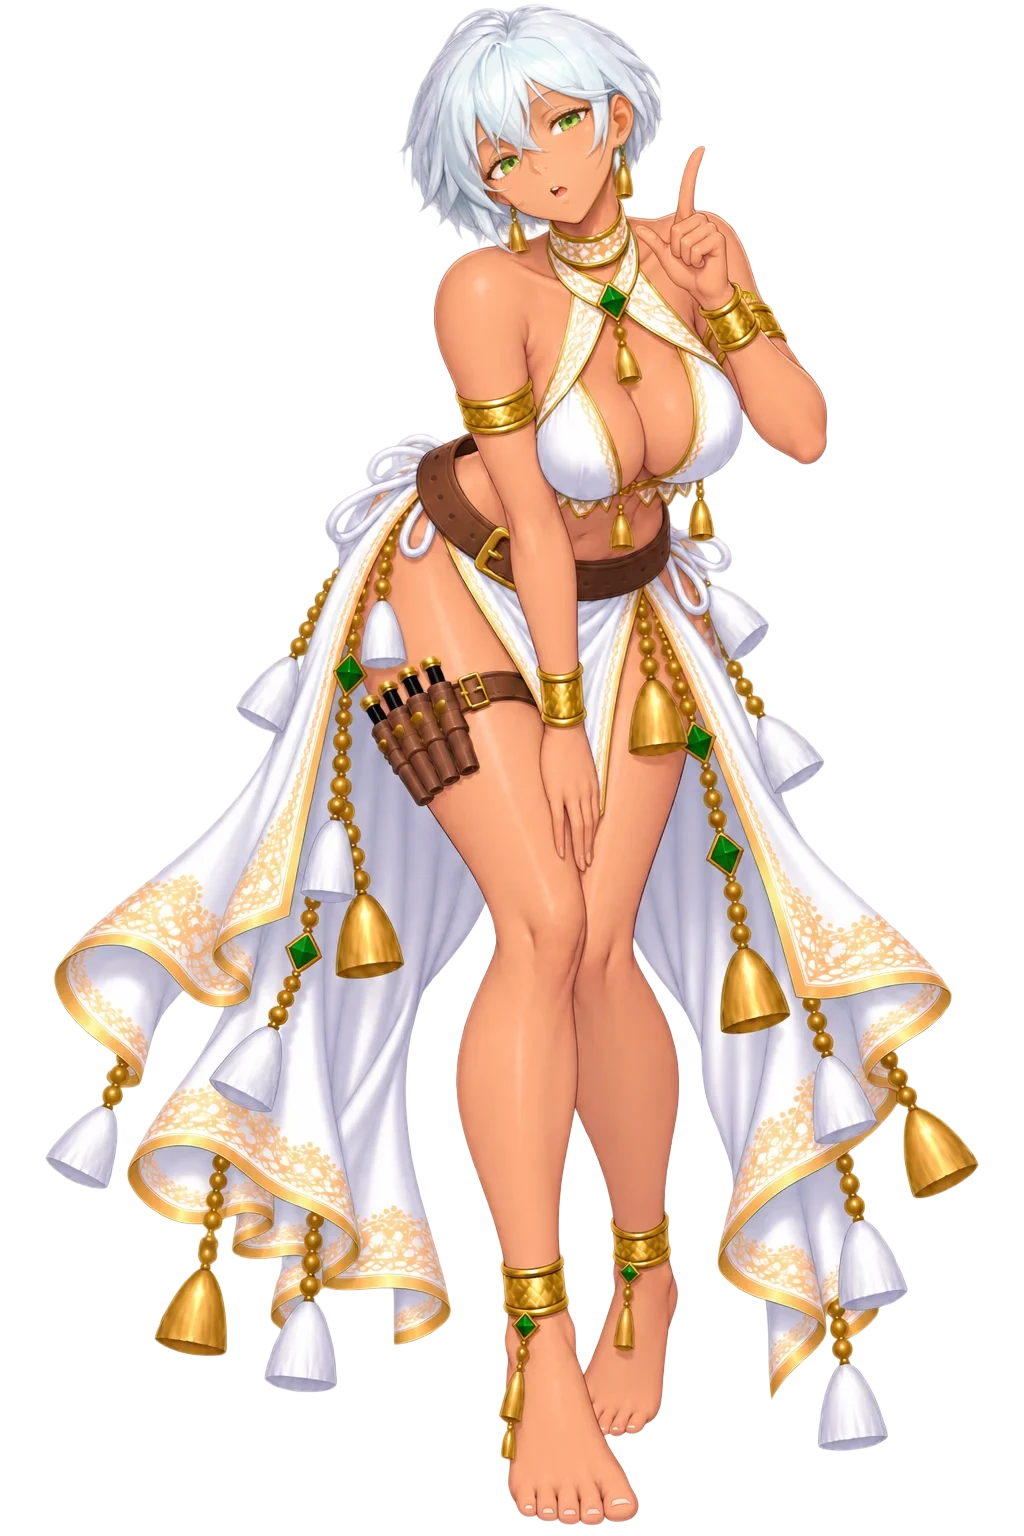
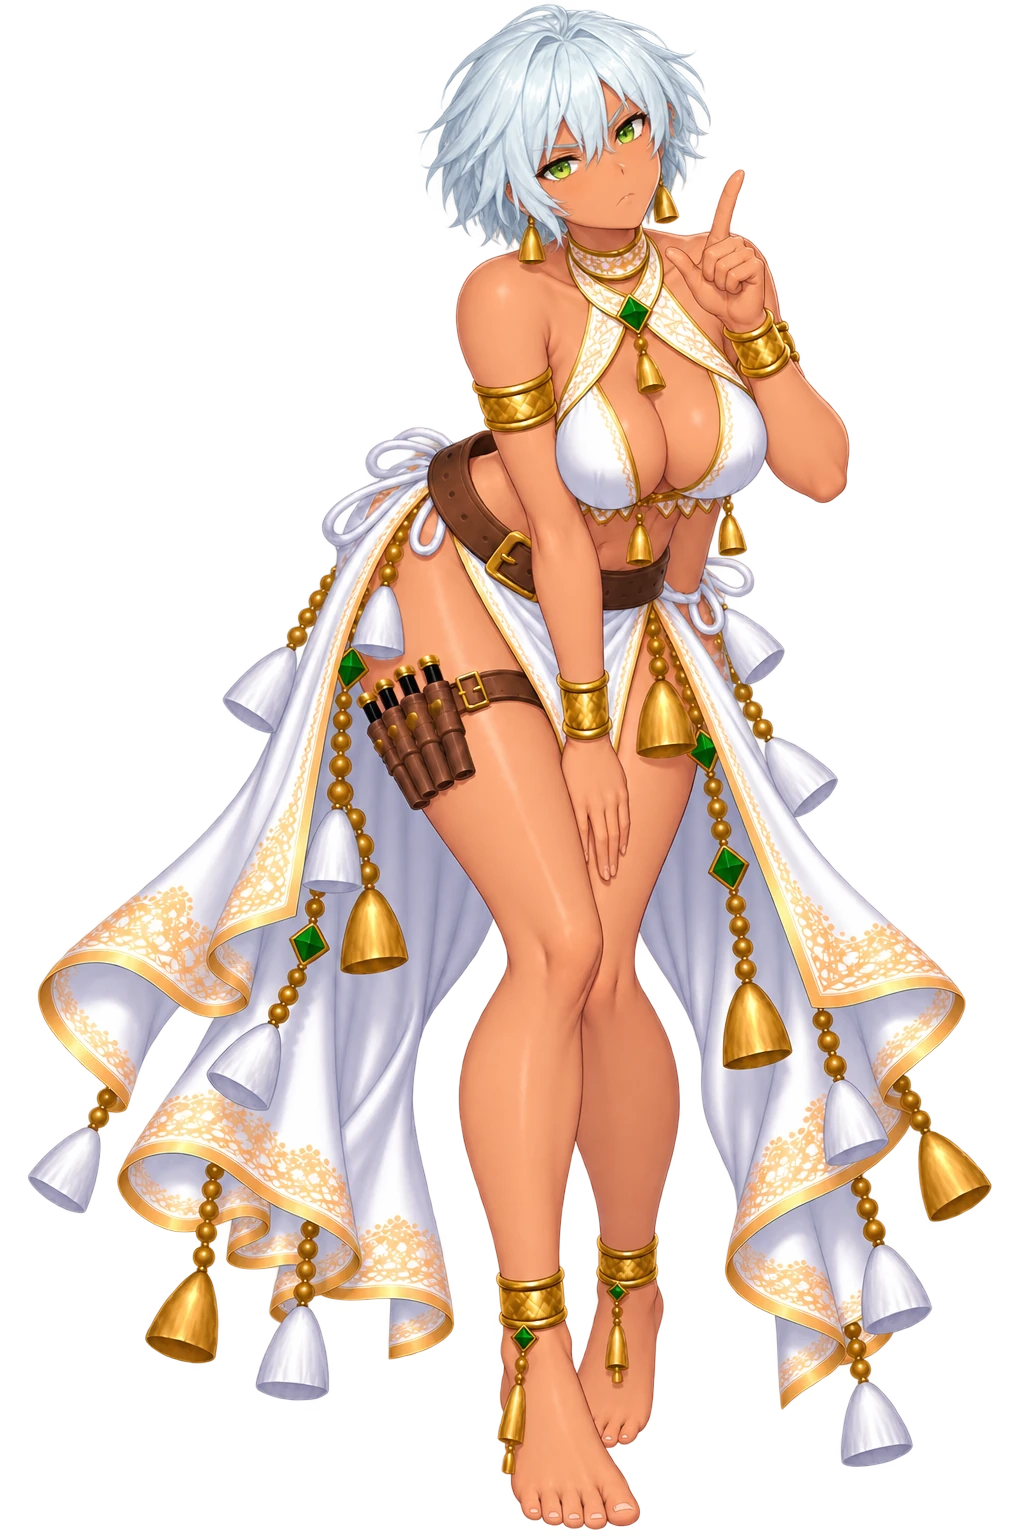
art(索拉娜): 再兩張 whisper／remind —— 57/62，剩下 5 張要 Ray 決定
換串 ＋ 在三行後面接一個短方向詞（憲法 §5 第二段）之後過的：
  whisper「警戒中的女戰士」／ remind「認真的女戰士」
四項驗收過（色相 199.7~206.2／角α 0／近白 0.00~0.25%／與 A 差 33~34），
臉部 100% 裁切並排看過，臉模與髮色對得上基底 A。

還差 5 張，兩種病不要混為一談：
  smirk(4次) tease(4次) amaze(3次) laugh(3次) —— 內容判定，連圖都沒有
  panic(3次) —— 圖出得來，但角落 alpha 246~252＝它自己畫了背景；
    兩種「要透明背景」的寫法都無效 ⇒ 該走憲法 -1516 的本機 alpha
    (tools/si_matting.py)，但這台還沒建 .venv-matting

⚠ 這五張已經接進腳本，「換掉那一張」會改掉演出 —— 三條路寫在工單 §四，Ray 決定。
⚠ 程式端要接：speakers.js 共 13 條路徑跳 ?v=（11 張加 v=2、side/smile 改 v=3）。

Changed region(s): [[0.0312, 0.0, 0.9688, 1.0]]

diff --git a/resources/si/_sorana_r3_worklist.md b/resources/si/_sorana_r3_worklist.md
@@ -1,4 +1,4 @@
-# 給程式 session 的工單 — 索拉娜第三輪重製 11 張（2026-09-22，美術 session）
+# 給程式 session 的工單 — 索拉娜第三輪重製 **13 張**（2026-09-22，美術 session）
 
 > Ray：「推上去，然後跑索」。作法照 `_sorana_r2_worklist.md` §五（A 先傳、三行提示詞、
 > 被擋就重送一次、再擋就跳過）。
@@ -7,7 +7,7 @@
 
 同名覆蓋，不跳就是玩家繼續吃舊的那一份，**而且畫面上不會有任何錯誤訊息**（§5 的 -650）。
 
-| 要加 `?v=2`（現在沒有版號，9 張） | `battlecry` `shy` `sorry` `surprise` `talk` `think` `tire` `upset` `watch` |
+| 要加 `?v=2`（現在沒有版號，11 張） | `battlecry` `shy` `sorry` `surprise` `talk` `think` `tire` `upset` `watch` **`whisper`** **`remind`** |
 |---|---|
 | **要改成 `?v=3`（現在是 `?v=2`，2 張）** | `side` `smile` |
 
@@ -22,7 +22,8 @@
 
     dTop  -5 ~ +6 px     dBot  -19 ~ +6 px      （畫布 1536，全部 <1.3%）
 
-⚠ 只有 `battlecry` 的 `bot` 偏 **−19px（1.2%）** 比較大，**要不要重量由程式端看畫面決定**
+⚠ 兩張的 `bot` 偏得比較大，**要不要重量由程式端看畫面決定**：
+`battlecry` **−19px（1.2%）**、`whisper` **−31px（2.0%）**
 （同 -1650 那三張 `hug`／`excite2`／`readsad` 的處理）。`fx` 一律不動。
 
 ## 三、驗收（四項，`resources/si/_sorana_check.py` 是唯一計算點）—— **11 張全過**
@@ -38,21 +39,38 @@
 眼睛形狀、金飾與鈴鐺全部對得上基底 A，沒有 -1556 那種吊眼／大圓眼的變形。
 透明像素佔 53~66%，是真 alpha 不是不透明底。
 
-## 四、⚠ 還沒做完的 7 張
+## 四、⚠ 還沒做完的 5 張 —— **四張被擋死、一張 alpha 出不來**
 
-| 狀況 | 鍵 |
-|---|---|
-| **今天被內容判定擋**（各重送一次仍然擋，照 Ray 的指示跳過） | `smirk` `tease` `whisper` |
-| **上一輪就被擋**（連擋 2~3 次） | `amaze` `laugh` `remind` |
-| **出圖了但沒有 alpha** | `panic` |
+> Ray（2026-09-22）：「**換提詞被擋就換下一張換 session 跑**」——
+> 以下每一張都走完了憲法 §5 那三段（原串重送 → 換串＋換一個短方向詞 → 再換串），
+> **不是沒試，是試到該停了**。
 
-⇒ 索拉娜 62 張的總進度：**44 ＋ 11 ＝ 55 張已重製，還差 7 張。**
+| 鍵 | 今天試了幾次 | 用過的短方向詞 | 結果 |
+|---|---|---|---|
+| `smirk` | **4** | 自信的女戰士／挑釁的女戰士 | 每一次都是內容判定 |
+| `tease` | **4** | 爽朗的女戰士／頑皮的女戰士 | 同上 |
+| `amaze` | **3** | 驚訝的女戰士／震驚的女戰士 | 同上 |
+| `laugh` | **3** | 開朗的女戰士／開懷大笑的女戰士 | 同上 |
+| `panic` | **3** | —（沒有被擋） | **圖每次都出得來，但角落 alpha 246~252 ＝ 它自己畫了背景** |
 
-⚠⚠ 下一輪處理這 7 張時照憲法 §5 那三段：**① 原串重送一次 → ② 換串 ＋ 換措辭
-（三行後面接一個短方向詞，例如「憤怒的女戰士」）→ ③ 換串還擋就換掉那一張**
-—— 第三段不是認輸，是省錢（Ray：「要的是那個角色的情緒範圍補齊，不是非那一張不可」）。
+⚠⚠ **`panic` 與另外四張是兩種病，不要混為一談**：
+· 那四張是**內容判定**（連圖都沒有）
+· `panic` 是**它不給透明背景** —— 加了「背景完全透明，四個角落必須是透明的」
+  與「輸出透明背景的 PNG，角色以外全部透明」兩種寫法都一樣。
+  ⇒ 這一張**不要再硬盧提示詞**：它已經是 §憲法 -1516 那條「本機 alpha」的適用對象
+  （`tools/si_matting.py` ＋ `matting_eval.py` 的四項門檻）。⚠ 那條路需要
+  `.venv-matting`（ToonOut／BiRefNet），**這台機器還沒建**（建法在憲法 §5）。
 
-## 五、⚠ 這一輪踩到的兩個坑（下一個人先看這裡）
+**⇒ 索拉娜 62 張的總進度：44 ＋ 13 ＝ 57 張已重製，還差 5 張。**
+
+⚠⚠⚠ **這五張要不要繼續，是 Ray 的決定，不是美術的** —— 憲法 §5 的第三段
+（「換掉那一張」）原本是給**補齊情緒範圍**用的；但這五張**已經接進腳本**，
+換一個姿勢等於改掉那幾拍的演出。三條路：
+1. **留著舊圖**（畫面不會壞，只是那五張還是舊的臉模）
+2. **換一個姿勢重畫**（腳本那幾拍的演出會變，取景要重量）
+3. **`panic` 單獨走本機 alpha**（先建 `.venv-matting`）
+
+## 五、⚠ 這一輪踩到的坑（下一個人先看這裡）
 
 1. **`_sorana_check.py` 的 `BASE` 指到 `resources/_originals/SI_sorana_base/soranagpt_1.png`，
    而 `_originals` 沒進版控** —— 換一台機器就跑不動。
@@ -60,5 +78,8 @@
    `soranagpt_1~4`，依檔名時間排序）。這一輪是把它們複製回 `_originals/SI_sorana_base/`
    才跑得起來。**下一台機器照做一次就好。**
 2. **`javascript_tool` 有 45 秒上限** —— `__send()` 自己就睡 20 秒，再串一個
-   25 秒的等待就會 timeout（而且**送出其實已經成功了**，只是回傳被砍掉）。
+   25 秒的等待就會 timeout，**而且送出其實已經成功了**，只是回傳被砍掉。
+   差一點誤判成「沒送出去」而重送（那會白燒一次額度）。
    ⇒ `__send` 與 `__grab` 要分成兩次呼叫，中間用 browser_batch 的 `wait` 湊時間。
+3. **換一個新對話之後 `ref` 會失效**，而且**同一個 `ref` 編號會被重新指派給別的元素**
+   —— 每開一個新串就重新 `find` 一次檔案輸入欄，不要沿用上一串的編號。
